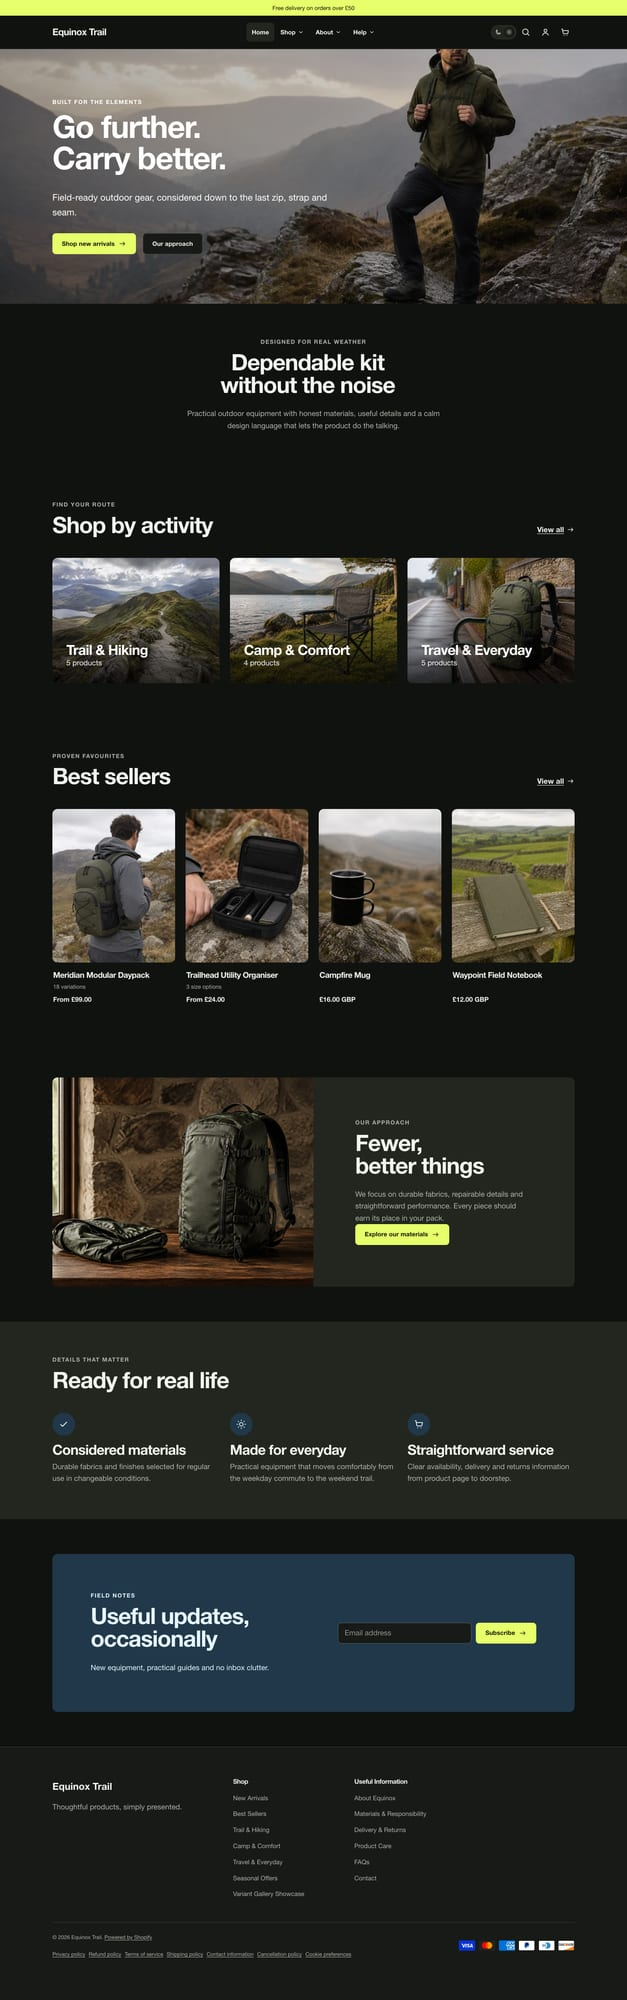
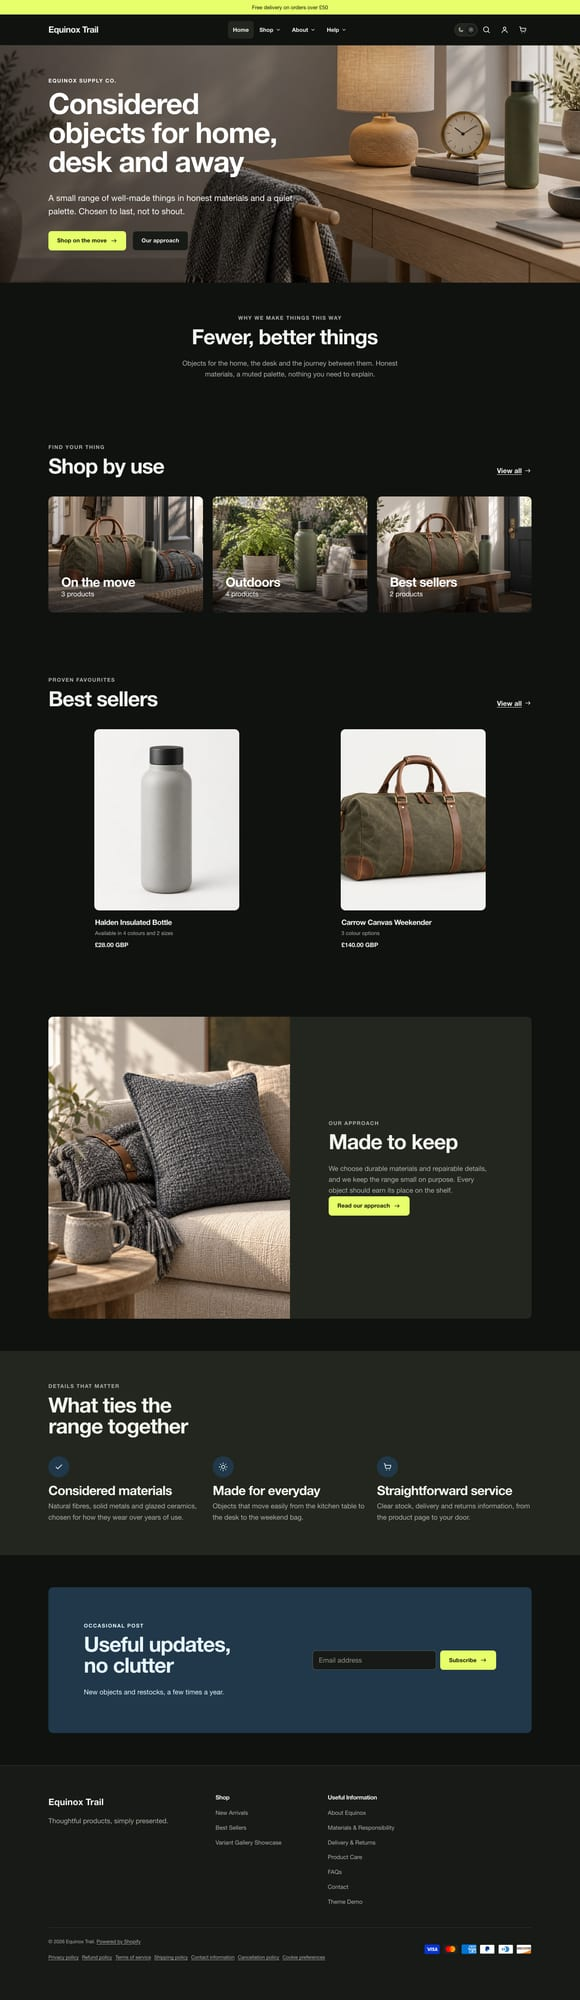
Update documentation

diff --git a/changelog.md b/changelog.md
@@ -1,14 +1,15 @@
 # Changelog
 
 ## Unreleased
-- **Fixed collection card text contrast.** The white-text-on-image override on
-  collection cards (Collection list page, Collection list section) was
-  targeting a literal `h3` element and never matched the theme's actual
-  markup, so card titles rendered in the standard dark heading colour and
-  were hard to read over darker photography. Added a **Collection name
-  colour** setting on the Collection list page section (defaults to white,
-  matching the section's dark gradient overlay) and fixed the underlying
-  selector.
+- **Fixed collection card text contrast.** Both places a collection card
+  renders (the Collection list page section, and the Collection list section
+  used on the homepage) share the same `.collection-card` styles, but one
+  wraps its title in `<h2 class="h3">` and the other in a real `<h3>`. The
+  white-text-on-image override only matched one of those, so card titles in
+  the other were rendering in the standard dark heading colour and were hard
+  to read over darker photography. The selector now matches both. Also added
+  a **Collection name colour** setting on the Collection list page section
+  (defaults to white, matching the section's dark gradient overlay).
 - **Nordic preset reworked** so it is genuinely distinct from the Equinox preset:
   cool grey-white palette, dusty slate-blue accent, square 0&nbsp;px corners,
   uppercase UI labels, wider page and larger spacing, lighter and smaller
